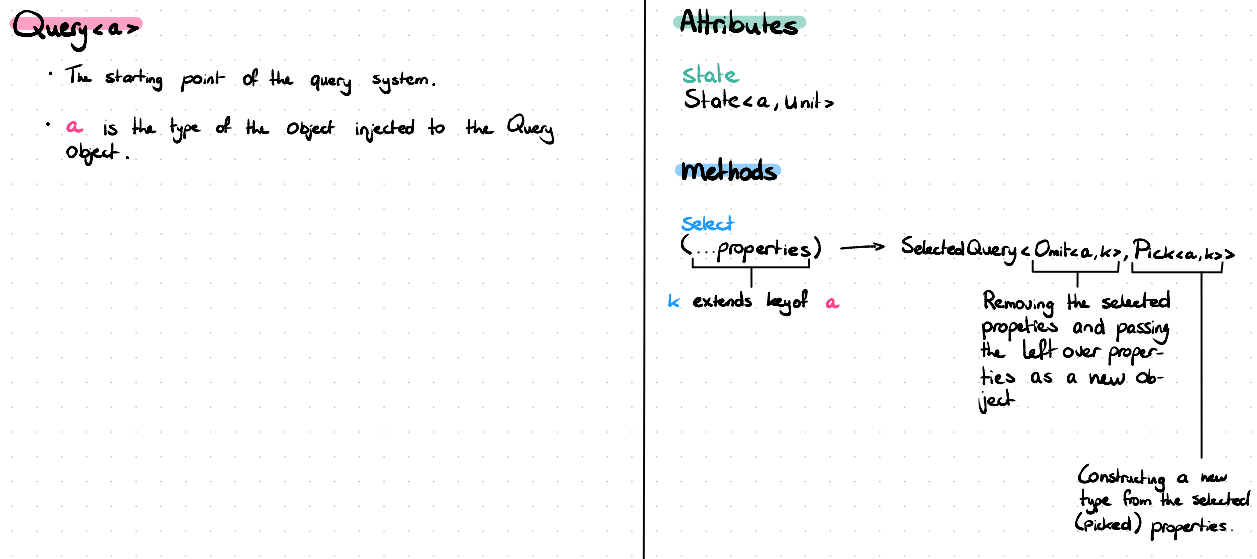
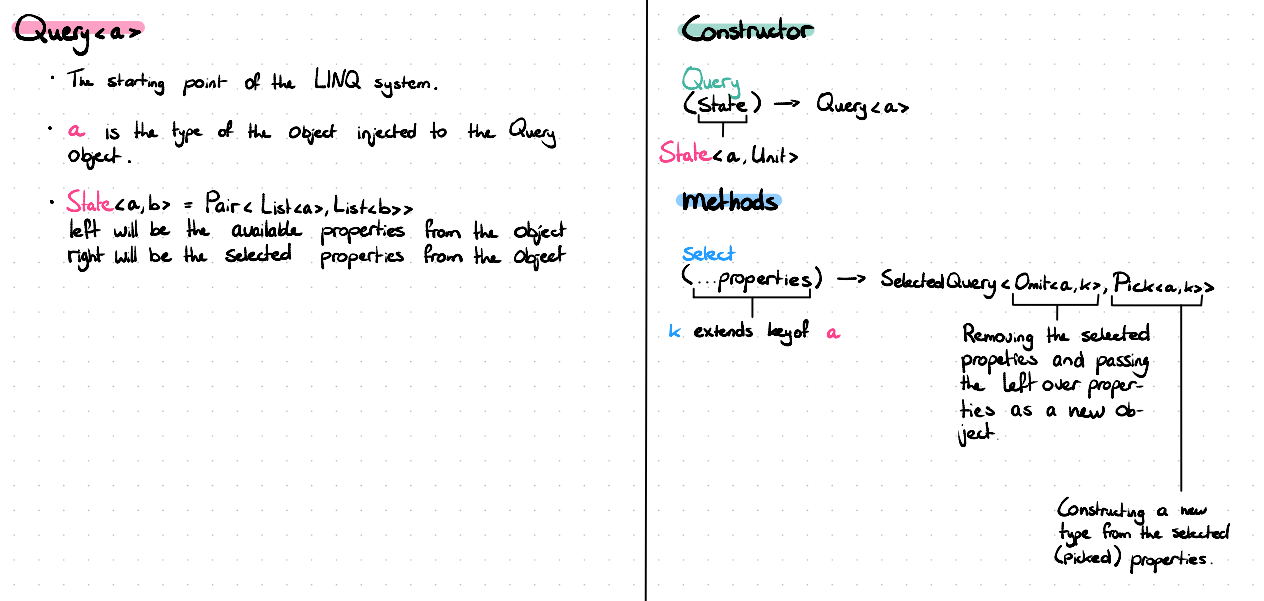
Update documentation

diff --git a/README.md b/README.md
@@ -2,6 +2,12 @@
 
 A small system in which data can be easily retrieved by querying in a type safe manner. This is the [assignment](https://github.com/hogeschool/Software-Engineering-Minor/blob/master/Projects/project2%20-%20mini%20typesafe%20LINQ%20to%20SQL.md) regarding the third year minor Software Engineering at the Hogeschool Rotterdam.
 
+#### Preface: Thinking out loud
+![Brainstorming](./documentation/preface.png)
+
+A good way yo start of is by brainstorming. In this session all problems, questions and thoughts were documented on paper to get a clearer view of the assignment.
+
+
 #### Fase 1: Select
 ![Category](./documentation/fase-1-1.png)
 
